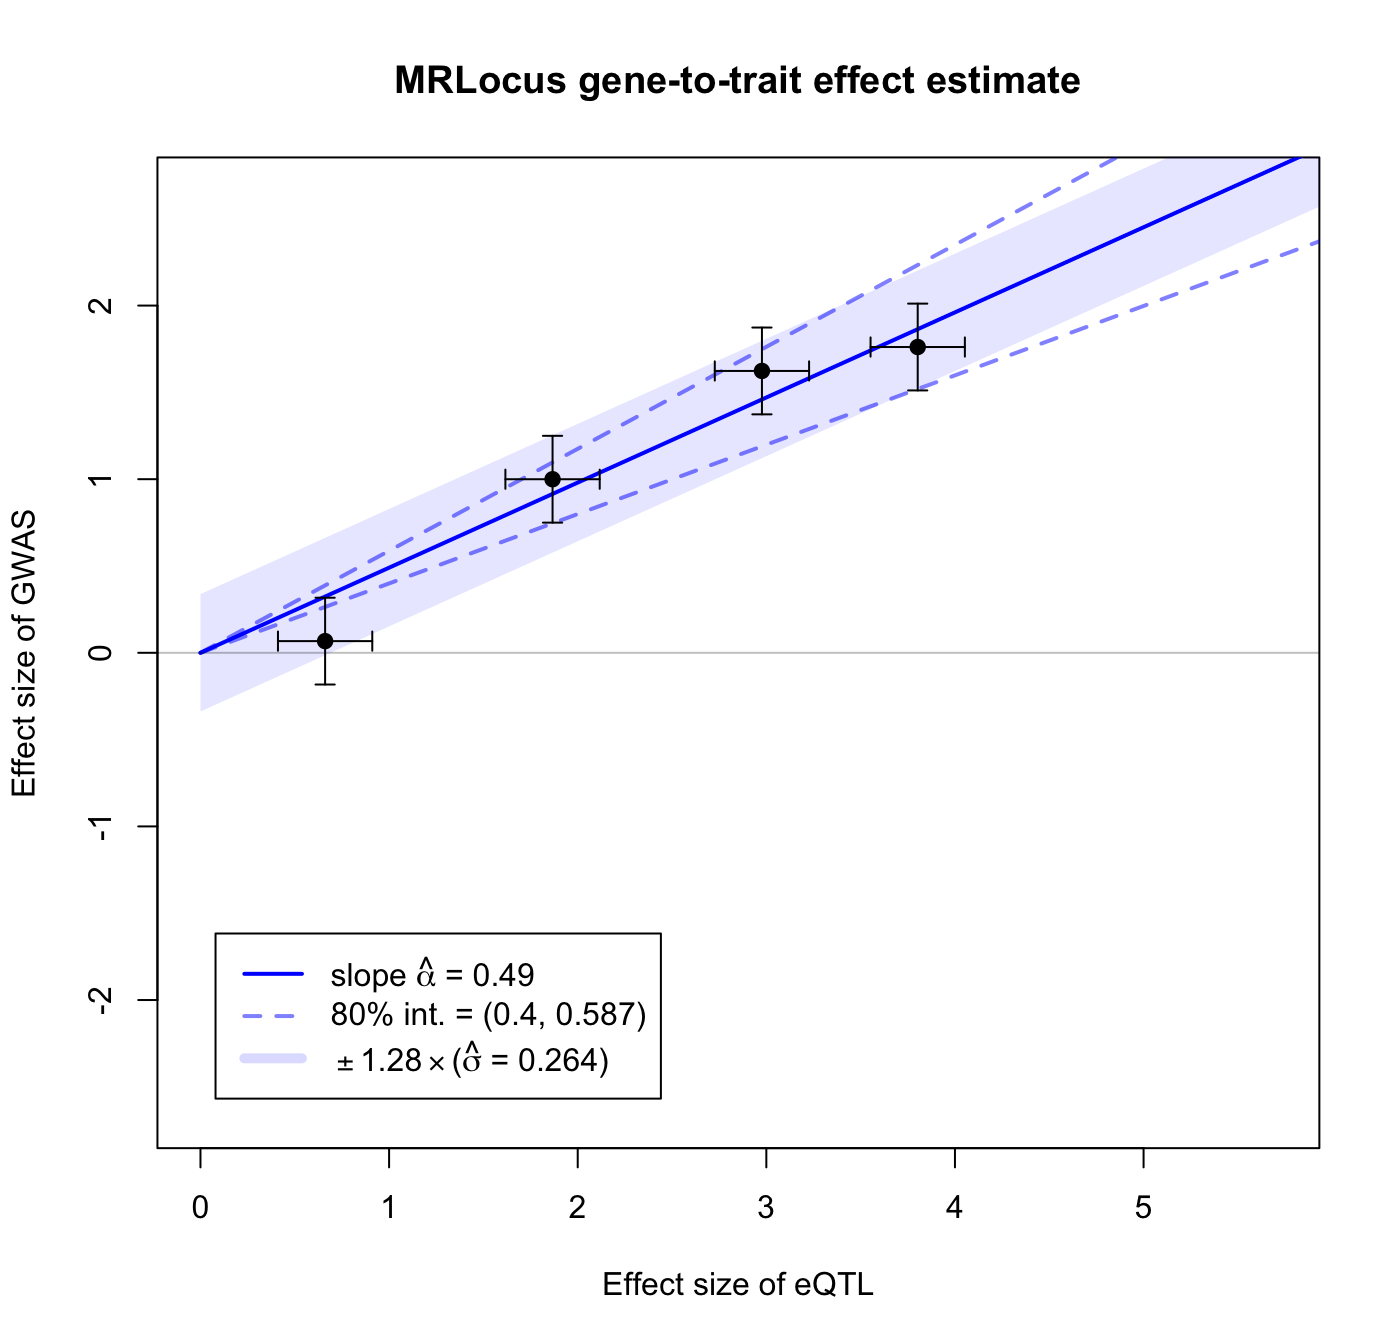
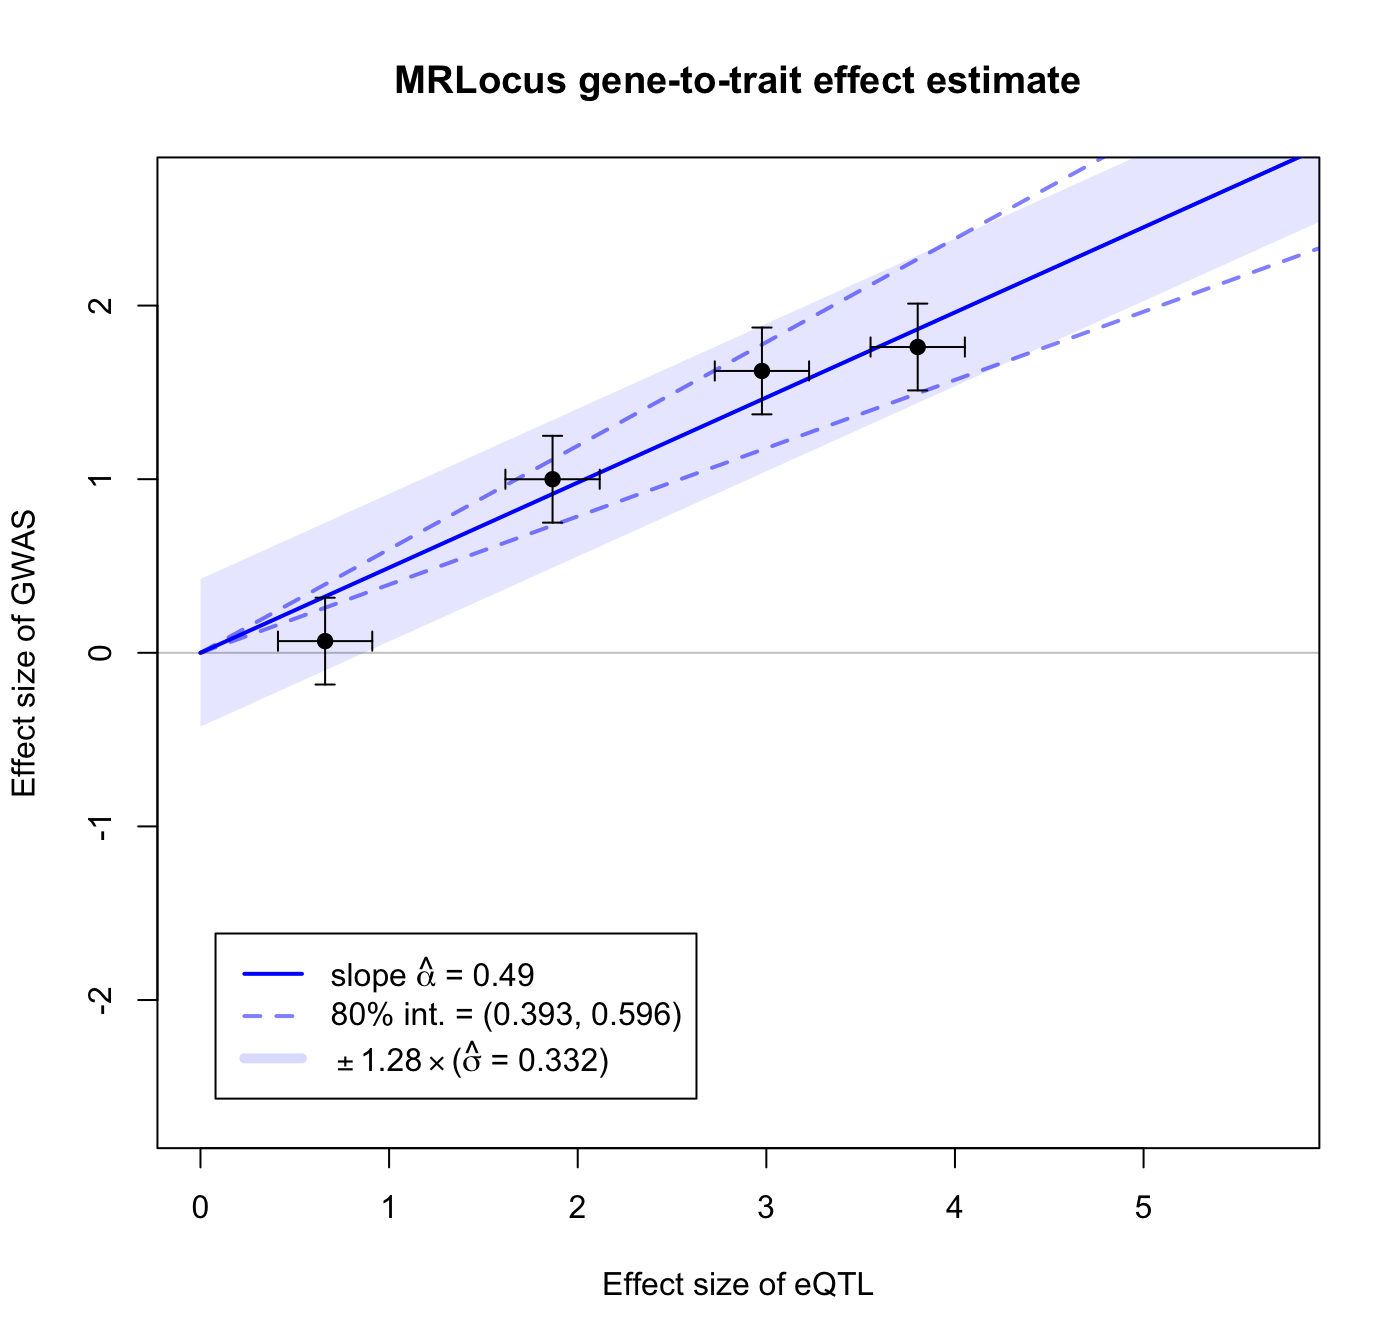
adapt sd_sigma hyperparameter

diff --git a/docs/articles/mrlocus.html b/docs/articles/mrlocus.html
@@ -37,7 +37,7 @@
       </button>
       <span class="navbar-brand">
         <a class="navbar-link" href="../index.html">mrlocus</a>
-        <span class="version label label-default" data-toggle="tooltip" data-placement="bottom" title="Released version">0.0.14</span>
+        <span class="version label label-default" data-toggle="tooltip" data-placement="bottom" title="Released version">0.0.15</span>
       </span>
     </div>
 
@@ -54,6 +54,9 @@
 </li>
 <li>
   <a href="../reference/index.html">Reference</a>
+</li>
+<li>
+  <a href="../news/index.html">Changelog</a>
 </li>
       </ul>
 <ul class="nav navbar-nav navbar-right">
@@ -79,7 +82,7 @@
       <h1 data-toc-skip>MRLocus - estimation of gene-to-trait effects</h1>
                         <h4 class="author">Anqi Zhu, Nana Matoba, Jason Stein, Michael Love</h4>
             
-            <h4 class="date">08/22/2020</h4>
+            <h4 class="date">08/24/2020</h4>
       
       <small class="dont-index">Source: <a href="https://github.com/mikelove/mrlocus/blob/master/vignettes/mrlocus.Rmd"><code>vignettes/mrlocus.Rmd</code></a></small>
       <div class="hidden name"><code>mrlocus.Rmd</code></div>
@@ -89,7 +92,7 @@
     
         <div class="abstract">
       <p class="abstract">Abstract</p>
-      MRLocus provides estimation of gene-to-trait effects from eQTL and GWAS summary statistics, for loci with allelic heterogeneity: multiple LD-independent signal clusters representing distinct eQTLs. Evidence is aggregated across signal clusters for mediation of the downstream GWAS trait through the gene. MRLocus package version: 0.0.14
+      MRLocus provides estimation of gene-to-trait effects from eQTL and GWAS summary statistics, for loci with allelic heterogeneity: multiple LD-independent signal clusters representing distinct eQTLs. Evidence is aggregated across signal clusters for mediation of the downstream GWAS trait through the gene. MRLocus package version: 0.0.15
     </div>
     
 <div id="introduction" class="section level1">
@@ -192,10 +195,10 @@
 ## post-warmup draws per chain=5000, total post-warmup draws=20000.
 ## 
 ##        mean se_mean    sd   10%   90% n_eff  Rhat
-## alpha 0.490   0.001 0.086 0.400 0.587  3333 1.005
-## sigma 0.264   0.012 0.246 0.044 0.567   445 1.015
+## alpha 0.490   0.003 0.110 0.393 0.596  1657 1.008
+## sigma 0.332   0.013 0.444 0.043 0.707  1240 1.005
 ## 
-## Samples were drawn using NUTS(diag_e) at Sat Aug 22 09:11:33 2020.
+## Samples were drawn using NUTS(diag_e) at Mon Aug 24 22:12:46 2020.
 ## For each parameter, n_eff is a crude measure of effective sample size,
 ## and Rhat is the potential scale reduction factor on split chains (at 
 ## convergence, Rhat=1).</code></pre>
@@ -222,8 +225,8 @@
 ## [1] stats     graphics  grDevices utils     datasets  methods   base     
 ## 
 ## other attached packages:
-## [1] rstan_2.21.2         ggplot2_3.3.2        StanHeaders_2.21.0-5
-## [4] mrlocus_0.0.14      
+## [1] rstan_2.21.2         ggplot2_3.3.2        StanHeaders_2.21.0-6
+## [4] mrlocus_0.0.15      
 ## 
 ## loaded via a namespace (and not attached):
 ##  [1] tidyselect_1.1.0   xfun_0.16          purrr_0.3.4        V8_3.2.0          
@@ -236,10 +239,10 @@
 ## [29] ps_1.3.4           parallel_4.0.2     curl_4.3           fansi_0.4.1       
 ## [33] Rcpp_1.0.5         backports_1.1.8    scales_1.1.1       desc_1.2.0        
 ## [37] RcppParallel_5.0.2 jsonlite_1.7.0     fs_1.5.0           gridExtra_2.3     
-## [41] digest_0.6.25      stringi_1.4.6      processx_3.4.3     dplyr_1.0.1       
+## [41] digest_0.6.25      stringi_1.4.6      processx_3.4.3     dplyr_1.0.2       
 ## [45] grid_4.0.2         rprojroot_1.3-2    cli_2.0.2          tools_4.0.2       
 ## [49] magrittr_1.5       tibble_3.0.3       crayon_1.3.4       pkgconfig_2.0.3   
-## [53] MASS_7.3-51.6      ellipsis_0.3.1     prettyunits_1.1.1  assertthat_0.2.1  
+## [53] MASS_7.3-52        ellipsis_0.3.1     prettyunits_1.1.1  assertthat_0.2.1  
 ## [57] rmarkdown_2.3      R6_2.4.1           compiler_4.0.2</code></pre>
 </div>
 <div id="references" class="section level1 unnumbered">

diff --git a/docs/reference/fitSlope.html b/docs/reference/fitSlope.html
@@ -91,7 +91,7 @@ See vignette for example of model interpretation." />
       </button>
       <span class="navbar-brand">
         <a class="navbar-link" href="../index.html">mrlocus</a>
-        <span class="version label label-default" data-toggle="tooltip" data-placement="bottom" title="Released version">0.0.14</span>
+        <span class="version label label-default" data-toggle="tooltip" data-placement="bottom" title="Released version">0.0.15</span>
       </span>
     </div>
 
@@ -108,6 +108,9 @@ See vignette for example of model interpretation." />
 </li>
 <li>
   <a href="../reference/index.html">Reference</a>
+</li>
+<li>
+  <a href="../news/index.html">Changelog</a>
 </li>
       </ul>
       <ul class="nav navbar-nav navbar-right">
@@ -153,7 +156,7 @@ See vignette for example of model interpretation.</p>
   <span class='kw'>sd_beta</span> <span class='kw'>=</span> <span class='kw'>NULL</span>,
   <span class='kw'>mu_alpha</span> <span class='kw'>=</span> <span class='kw'>NULL</span>,
   <span class='kw'>sd_alpha</span> <span class='kw'>=</span> <span class='kw'>NULL</span>,
-  <span class='kw'>sd_sigma</span> <span class='kw'>=</span> <span class='fl'>1</span>,
+  <span class='kw'>sd_sigma</span> <span class='kw'>=</span> <span class='kw'>NULL</span>,
   <span class='no'>...</span>
 )</pre>
 

diff --git a/docs/reference/extractForSlope.html b/docs/reference/extractForSlope.html
@@ -84,7 +84,7 @@ for A (largest effect size in the positive direction)." />
       </button>
       <span class="navbar-brand">
         <a class="navbar-link" href="../index.html">mrlocus</a>
-        <span class="version label label-default" data-toggle="tooltip" data-placement="bottom" title="Released version">0.0.14</span>
+        <span class="version label label-default" data-toggle="tooltip" data-placement="bottom" title="Released version">0.0.15</span>
       </span>
     </div>
 
@@ -101,6 +101,9 @@ for A (largest effect size in the positive direction)." />
 </li>
 <li>
   <a href="../reference/index.html">Reference</a>
+</li>
+<li>
+  <a href="../news/index.html">Changelog</a>
 </li>
       </ul>
       <ul class="nav navbar-nav navbar-right">

diff --git a/docs/reference/fitBetaColoc.html b/docs/reference/fitBetaColoc.html
@@ -88,7 +88,7 @@ See Supplementary Methods of the MRLocus manuscript." />
       </button>
       <span class="navbar-brand">
         <a class="navbar-link" href="../index.html">mrlocus</a>
-        <span class="version label label-default" data-toggle="tooltip" data-placement="bottom" title="Released version">0.0.14</span>
+        <span class="version label label-default" data-toggle="tooltip" data-placement="bottom" title="Released version">0.0.15</span>
       </span>
     </div>
 
@@ -105,6 +105,9 @@ See Supplementary Methods of the MRLocus manuscript." />
 </li>
 <li>
   <a href="../reference/index.html">Reference</a>
+</li>
+<li>
+  <a href="../news/index.html">Changelog</a>
 </li>
       </ul>
       <ul class="nav navbar-nav navbar-right">

diff --git a/docs/reference/mrlocus-package.html b/docs/reference/mrlocus-package.html
@@ -94,7 +94,7 @@ plotMrlocus - plot estimates from MR analysis
       </button>
       <span class="navbar-brand">
         <a class="navbar-link" href="../index.html">mrlocus</a>
-        <span class="version label label-default" data-toggle="tooltip" data-placement="bottom" title="Released version">0.0.14</span>
+        <span class="version label label-default" data-toggle="tooltip" data-placement="bottom" title="Released version">0.0.15</span>
       </span>
     </div>
 
@@ -111,6 +111,9 @@ plotMrlocus - plot estimates from MR analysis
 </li>
 <li>
   <a href="../reference/index.html">Reference</a>
+</li>
+<li>
+  <a href="../news/index.html">Changelog</a>
 </li>
       </ul>
       <ul class="nav navbar-nav navbar-right">

diff --git a/docs/reference/collapseHighCorSNPs.html b/docs/reference/collapseHighCorSNPs.html
@@ -85,7 +85,7 @@ fitBetaColoc." />
       </button>
       <span class="navbar-brand">
         <a class="navbar-link" href="../index.html">mrlocus</a>
-        <span class="version label label-default" data-toggle="tooltip" data-placement="bottom" title="Released version">0.0.14</span>
+        <span class="version label label-default" data-toggle="tooltip" data-placement="bottom" title="Released version">0.0.15</span>
       </span>
     </div>
 
@@ -102,6 +102,9 @@ fitBetaColoc." />
 </li>
 <li>
   <a href="../reference/index.html">Reference</a>
+</li>
+<li>
+  <a href="../news/index.html">Changelog</a>
 </li>
       </ul>
       <ul class="nav navbar-nav navbar-right">

diff --git a/docs/reference/flipAllelesAndGather.html b/docs/reference/flipAllelesAndGather.html
@@ -90,7 +90,7 @@ fitBetaColoc." />
       </button>
       <span class="navbar-brand">
         <a class="navbar-link" href="../index.html">mrlocus</a>
-        <span class="version label label-default" data-toggle="tooltip" data-placement="bottom" title="Released version">0.0.14</span>
+        <span class="version label label-default" data-toggle="tooltip" data-placement="bottom" title="Released version">0.0.15</span>
       </span>
     </div>
 
@@ -107,6 +107,9 @@ fitBetaColoc." />
 </li>
 <li>
   <a href="../reference/index.html">Reference</a>
+</li>
+<li>
+  <a href="../news/index.html">Changelog</a>
 </li>
       </ul>
       <ul class="nav navbar-nav navbar-right">

diff --git a/docs/404.html b/docs/404.html
@@ -81,7 +81,7 @@
       </button>
       <span class="navbar-brand">
         <a class="navbar-link" href="https://mikelove.github.io/mrlocus/index.html">mrlocus</a>
-        <span class="version label label-default" data-toggle="tooltip" data-placement="bottom" title="Released version">0.0.14</span>
+        <span class="version label label-default" data-toggle="tooltip" data-placement="bottom" title="Released version">0.0.15</span>
       </span>
     </div>
 
@@ -98,6 +98,9 @@
 </li>
 <li>
   <a href="reference/index.html">Reference</a>
+</li>
+<li>
+  <a href="news/index.html">Changelog</a>
 </li>
       </ul>
       <ul class="nav navbar-nav navbar-right">

diff --git a/docs/articles/index.html b/docs/articles/index.html
@@ -81,7 +81,7 @@
       </button>
       <span class="navbar-brand">
         <a class="navbar-link" href="../index.html">mrlocus</a>
-        <span class="version label label-default" data-toggle="tooltip" data-placement="bottom" title="Released version">0.0.14</span>
+        <span class="version label label-default" data-toggle="tooltip" data-placement="bottom" title="Released version">0.0.15</span>
       </span>
     </div>
 
@@ -98,6 +98,9 @@
 </li>
 <li>
   <a href="../reference/index.html">Reference</a>
+</li>
+<li>
+  <a href="../news/index.html">Changelog</a>
 </li>
       </ul>
       <ul class="nav navbar-nav navbar-right">

diff --git a/docs/reference/index.html b/docs/reference/index.html
@@ -81,7 +81,7 @@
       </button>
       <span class="navbar-brand">
         <a class="navbar-link" href="../index.html">mrlocus</a>
-        <span class="version label label-default" data-toggle="tooltip" data-placement="bottom" title="Released version">0.0.14</span>
+        <span class="version label label-default" data-toggle="tooltip" data-placement="bottom" title="Released version">0.0.15</span>
       </span>
     </div>
 
@@ -98,6 +98,9 @@
 </li>
 <li>
   <a href="../reference/index.html">Reference</a>
+</li>
+<li>
+  <a href="../news/index.html">Changelog</a>
 </li>
       </ul>
       <ul class="nav navbar-nav navbar-right">

diff --git a/docs/reference/makeSimDataForMrlocus.html b/docs/reference/makeSimDataForMrlocus.html
@@ -82,7 +82,7 @@
       </button>
       <span class="navbar-brand">
         <a class="navbar-link" href="../index.html">mrlocus</a>
-        <span class="version label label-default" data-toggle="tooltip" data-placement="bottom" title="Released version">0.0.14</span>
+        <span class="version label label-default" data-toggle="tooltip" data-placement="bottom" title="Released version">0.0.15</span>
       </span>
     </div>
 
@@ -99,6 +99,9 @@
 </li>
 <li>
   <a href="../reference/index.html">Reference</a>
+</li>
+<li>
+  <a href="../news/index.html">Changelog</a>
 </li>
       </ul>
       <ul class="nav navbar-nav navbar-right">

diff --git a/docs/reference/plotInitEstimates.html b/docs/reference/plotInitEstimates.html
@@ -82,7 +82,7 @@
       </button>
       <span class="navbar-brand">
         <a class="navbar-link" href="../index.html">mrlocus</a>
-        <span class="version label label-default" data-toggle="tooltip" data-placement="bottom" title="Released version">0.0.14</span>
+        <span class="version label label-default" data-toggle="tooltip" data-placement="bottom" title="Released version">0.0.15</span>
       </span>
     </div>
 
@@ -99,6 +99,9 @@
 </li>
 <li>
   <a href="../reference/index.html">Reference</a>
+</li>
+<li>
+  <a href="../news/index.html">Changelog</a>
 </li>
       </ul>
       <ul class="nav navbar-nav navbar-right">
